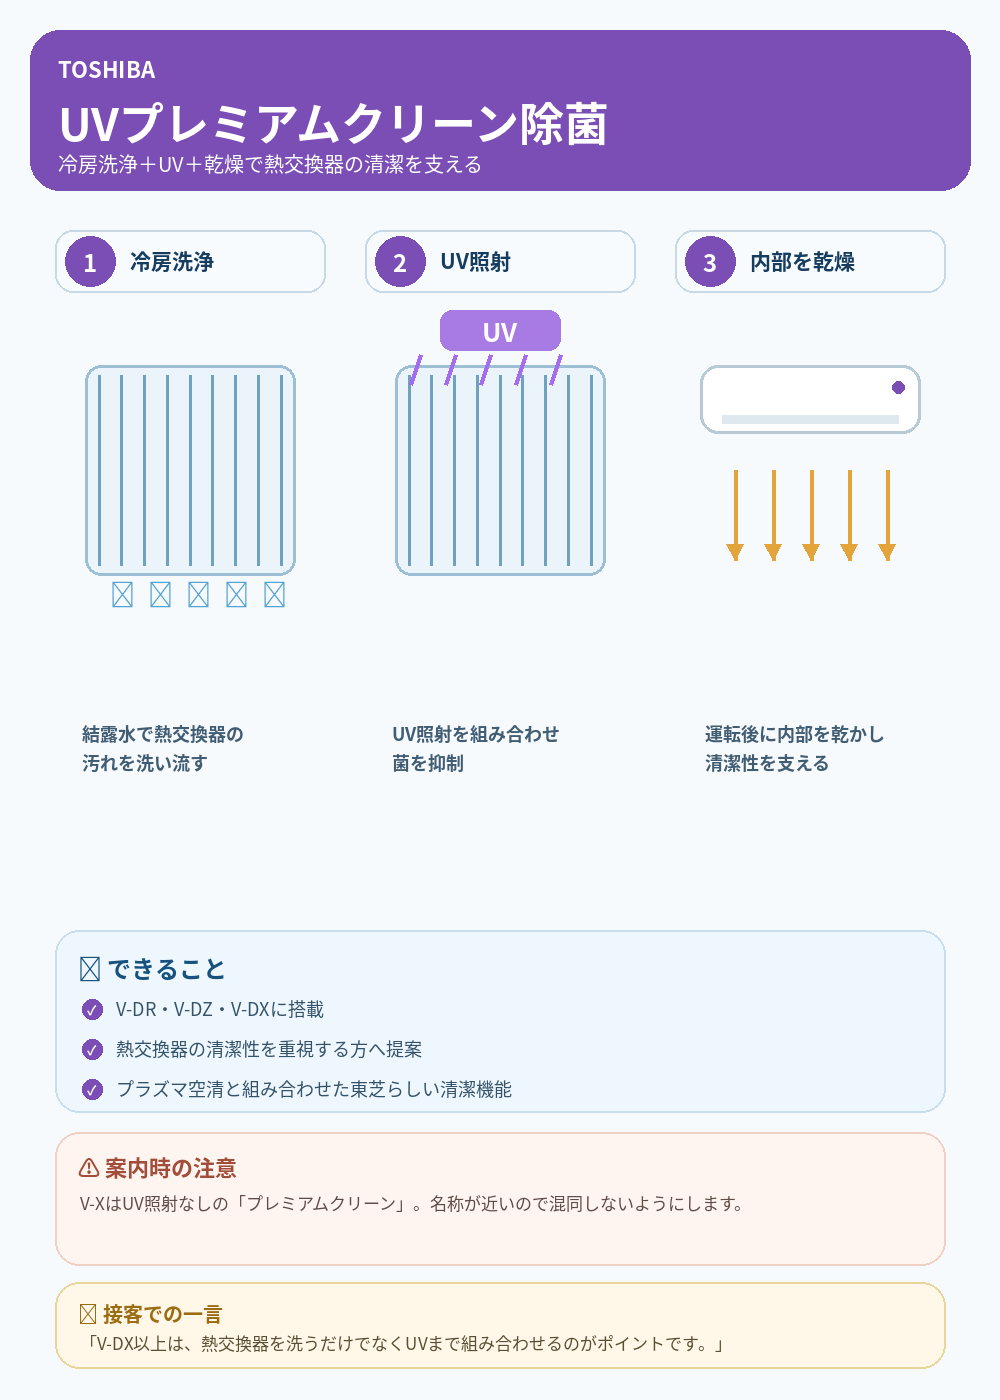
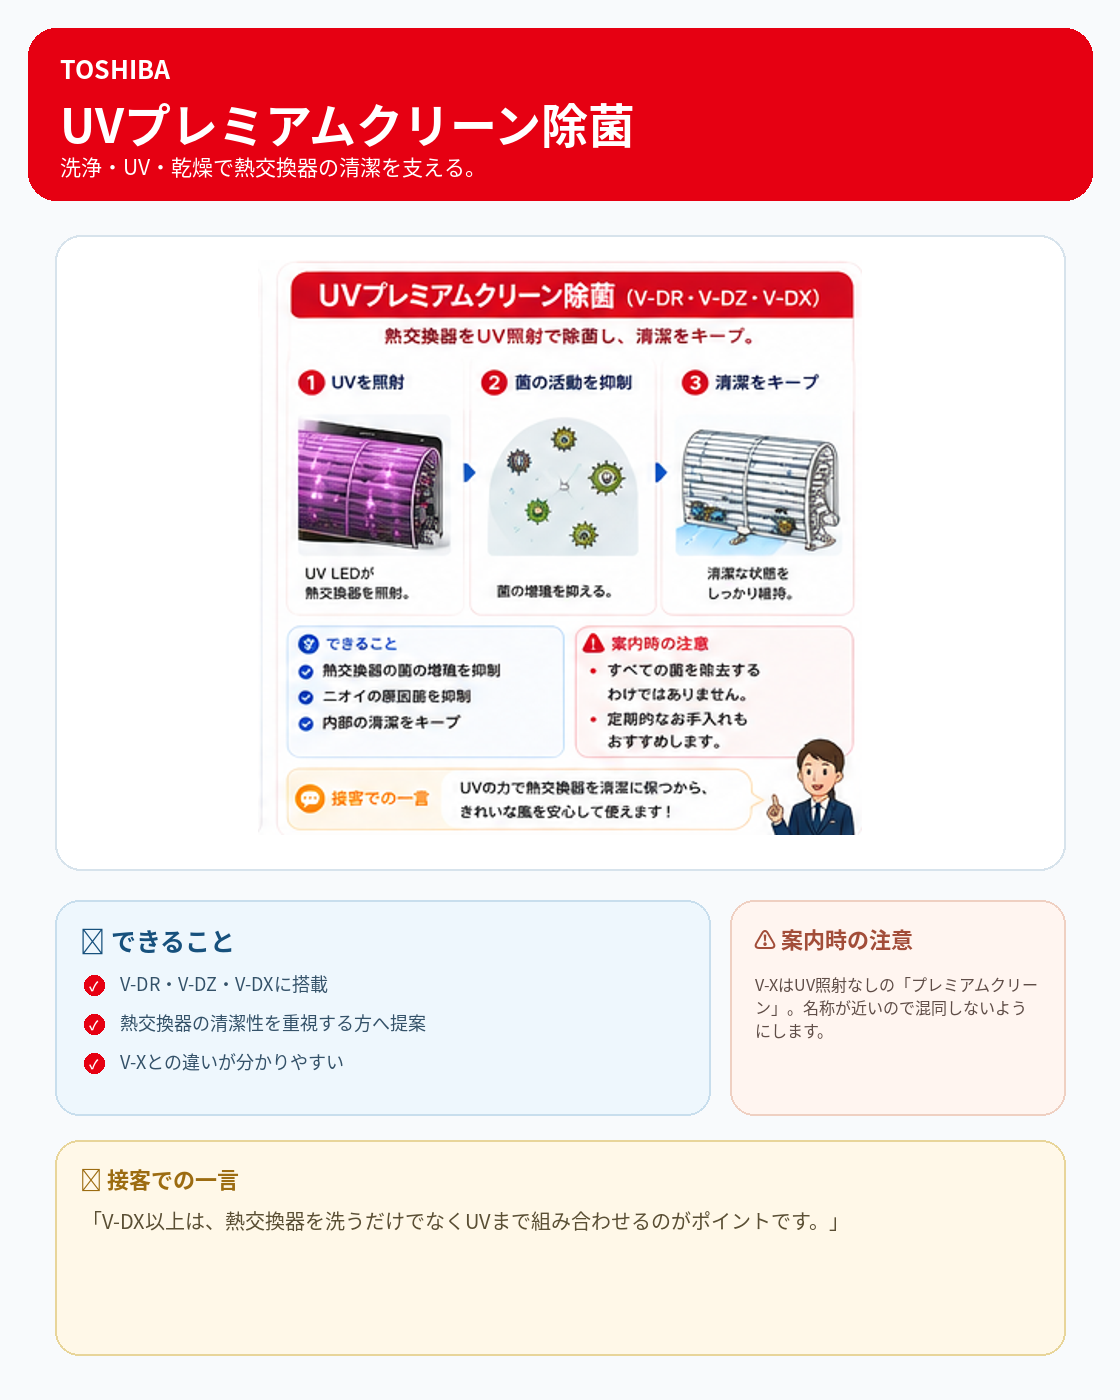
Add files via upload

diff --git a/index.html b/index.html
@@ -4,7 +4,7 @@
 <meta charset="utf-8">
 <meta name="viewport" content="width=device-width,initial-scale=1,viewport-fit=cover">
 <meta name="theme-color" content="#ffffff">
-<title>エアコン販買マスター Pro Ver.6.1.4 東芝SHARP図解ダイキン日立統一版</title>
+<title>エアコン販買マスター Pro Ver.6.1.5 東芝SHARP図解デザイン統一版</title>
 <link rel="apple-touch-icon" sizes="180x180" href="apple-touch-icon.png?v=3890">
 <link rel="icon" type="image/png" sizes="32x32" href="favicon-32.png?v=3890">
 <style>
@@ -1224,6 +1224,10 @@ html,body{max-width:100%;overflow-x:hidden}
 @media(max-width:700px){.visual-card-grid{grid-template-columns:1fr}.maker-status-list span{min-width:62px;height:50px;font-size:14px!important}}
 </style>
 
+<style id="v615-visual-parity">
+.visual-card[data-cat="toshiba"] img,.visual-card[data-cat="sharp"] img{aspect-ratio:auto!important;object-fit:contain!important;background:#fff}
+.visual-card[data-cat="toshiba"],.visual-card[data-cat="sharp"]{overflow:hidden}
+</style>
 </head>
 <body>
 <div class="app">
@@ -1234,7 +1238,7 @@ html,body{max-width:100%;overflow-x:hidden}
     <div class="brand">
       <span class="brand-snow">❄</span>
       <span>エアコン販買マスター</span>
-      <small>Ver.6.1.4 東芝SHARP図解ダイキン日立統一版</small>
+      <small>Ver.6.1.5 東芝SHARP図解デザイン統一版</small>
     </div>
     <button class="icon-button status-button" onclick="openMission()" aria-label="今日の目標">◎</button>
   </header>
@@ -3036,22 +3040,22 @@ const VISUAL_LIBRARY=[
  {category:"hitachi",file:"hitachi-sleep-watch-illustrated.png?v=415",title:"みはっておやすみ",desc:"睡眠中の温度・湿度を見張り、寝苦しさや冷えすぎに配慮する運転を図解。"},
  {category:"hitachi",file:"hitachi-swing-illustrated.png?v=415",title:"上下左右スイング",desc:"上下・左右の羽根を動かし、部屋全体へ気流を届ける仕組みを図解。"},
  {category:"hitachi",file:"hitachi-wave-fan-illustrated.png?v=414",title:"WN ウェーブファン",desc:"Xシリーズと同じファン採用、静音性向上、案内時の注意を図解。"},
- {category:"toshiba",file:"toshiba-radar-illustrated.png?v=614",title:"レーダー風あて／風よけ",desc:"V-DR専用。人の動きを探知し、風を届ける・避ける仕組みを図解。"},
- {category:"toshiba",file:"toshiba-mufukan-illustrated.png?v=614",title:"無風感空調",desc:"V-DR・V-DZ・V-DX。風あたりをやわらげる仕組みを図解。"},
- {category:"toshiba",file:"toshiba-plasma-illustrated.png?v=614",title:"プラズマ空清",desc:"電気集じん方式と搭載シリーズの違いを図解。"},
- {category:"toshiba",file:"toshiba-uvclean-illustrated.png?v=614",title:"UVプレミアムクリーン除菌",desc:"洗浄・UV・乾燥と、V-Xの違いを図解。"},
- {category:"toshiba",file:"toshiba-filter-illustrated.png?v=614",title:"フィルター自動お掃除（東芝）",desc:"自動掃除から楽ダストボックスまでを図解。"},
- {category:"toshiba",file:"toshiba-iolife-illustrated.png?v=614",title:"IoLIFE",desc:"Wi-Fi接続・機器登録・スマホ操作の流れを図解。"},
- {category:"toshiba",file:"toshiba-series-illustrated.png?v=614",title:"東芝5シリーズ比較",desc:"V-DR・V-DZ・V-DX・V-X・V-Mの位置づけを図解。"},
- {category:"sharp",file:"sharp-dryfan-illustrated.png?v=614",title:"防カビカラッとファン",desc:"Rシリーズのファン清潔機能を図解。"},
- {category:"sharp",file:"sharp-hyoketsu-illustrated.png?v=614",title:"氷結ドライ",desc:"熱交換器を氷点下まで下げる除湿の流れを図解。"},
- {category:"sharp",file:"sharp-takumi-illustrated.png?v=614",title:"匠の冷房",desc:"温度・湿度・気流を見ながら快適性を高める考え方を図解。"},
- {category:"sharp",file:"sharp-filter-illustrated.png?v=614",title:"フィルター自動お掃除（SHARP）",desc:"Vシリーズの自動お掃除と定期確認を図解。"},
- {category:"sharp",file:"sharp-coanda-illustrated.png?v=614",title:"コアンダ気流",desc:"直接風を抑えながら届ける気流を図解。"},
- {category:"sharp",file:"sharp-plasma-illustrated.png?v=614",title:"プラズマクラスター",desc:"R・V・Eの25000とDGの7000を比較。"},
- {category:"sharp",file:"sharp-series-illustrated.png?v=614",title:"SHARP 4シリーズ比較",desc:"R・V・E・DGの位置づけを図解。"},
- {category:"toshiba",file:"toshiba-settings-illustrated.png?v=614",title:"東芝 初期設定",desc:"手動選択・自動・IoLIFE接続設定を整理。"},
- {category:"sharp",file:"sharp-settings-illustrated.png?v=614",title:"SHARP 初期設定",desc:"設定が必要な機能・自動機能・アプリ接続を整理。"},
+ {category:"toshiba",file:"toshiba-radar-illustrated.png?v=615",title:"レーダー風あて／風よけ",desc:"V-DR専用。人の動きを探知し、風を届ける・避ける仕組みを図解。"},
+ {category:"toshiba",file:"toshiba-mufukan-illustrated.png?v=615",title:"無風感空調",desc:"V-DR・V-DZ・V-DX。風あたりをやわらげる仕組みを図解。"},
+ {category:"toshiba",file:"toshiba-plasma-illustrated.png?v=615",title:"プラズマ空清",desc:"電気集じん方式と搭載シリーズの違いを図解。"},
+ {category:"toshiba",file:"toshiba-uvclean-illustrated.png?v=615",title:"UVプレミアムクリーン除菌",desc:"洗浄・UV・乾燥と、V-Xの違いを図解。"},
+ {category:"toshiba",file:"toshiba-filter-illustrated.png?v=615",title:"フィルター自動お掃除（東芝）",desc:"自動掃除から楽ダストボックスまでを図解。"},
+ {category:"toshiba",file:"toshiba-iolife-illustrated.png?v=615",title:"IoLIFE",desc:"Wi-Fi接続・機器登録・スマホ操作の流れを図解。"},
+ {category:"toshiba",file:"toshiba-series-illustrated.png?v=615",title:"東芝5シリーズ比較",desc:"V-DR・V-DZ・V-DX・V-X・V-Mの位置づけを図解。"},
+ {category:"sharp",file:"sharp-dryfan-illustrated.png?v=615",title:"防カビカラッとファン",desc:"Rシリーズのファン清潔機能を図解。"},
+ {category:"sharp",file:"sharp-hyoketsu-illustrated.png?v=615",title:"氷結ドライ",desc:"熱交換器を氷点下まで下げる除湿の流れを図解。"},
+ {category:"sharp",file:"sharp-takumi-illustrated.png?v=615",title:"匠の冷房",desc:"温度・湿度・気流を見ながら快適性を高める考え方を図解。"},
+ {category:"sharp",file:"sharp-filter-illustrated.png?v=615",title:"フィルター自動お掃除（SHARP）",desc:"Vシリーズの自動お掃除と定期確認を図解。"},
+ {category:"sharp",file:"sharp-coanda-illustrated.png?v=615",title:"コアンダ気流",desc:"直接風を抑えながら届ける気流を図解。"},
+ {category:"sharp",file:"sharp-plasma-illustrated.png?v=615",title:"プラズマクラスター",desc:"R・V・Eの25000とDGの7000を比較。"},
+ {category:"sharp",file:"sharp-series-illustrated.png?v=615",title:"SHARP 4シリーズ比較",desc:"R・V・E・DGの位置づけを図解。"},
+ {category:"toshiba",file:"toshiba-settings-illustrated.png?v=615",title:"東芝 初期設定",desc:"手動選択・自動・IoLIFE接続設定を整理。"},
+ {category:"sharp",file:"sharp-settings-illustrated.png?v=615",title:"SHARP 初期設定",desc:"設定が必要な機能・自動機能・アプリ接続を整理。"},
  {category:"construction",file:"construction-voltage.png",title:"100V・200V",desc:"コンセント・電圧・分電盤をセットで確認。"},
  {category:"construction",file:"construction-dedicated.png",title:"専用回路",desc:"分電盤からエアコンまで他機器と共用しない回路。"},
  {category:"construction",file:"construction-board.png",title:"分電盤",desc:"主幹・分岐・単相2線/3線・空き回路・専用回路を総合確認。"},
